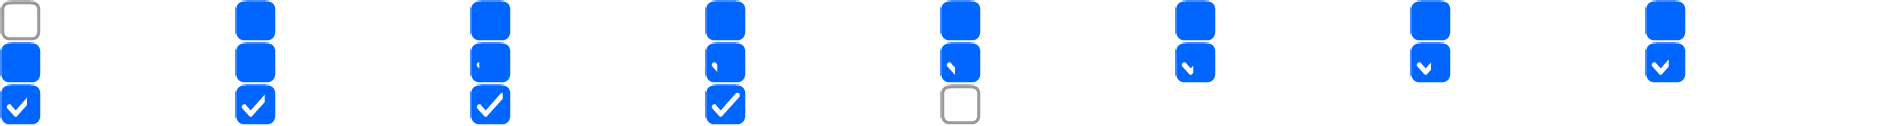
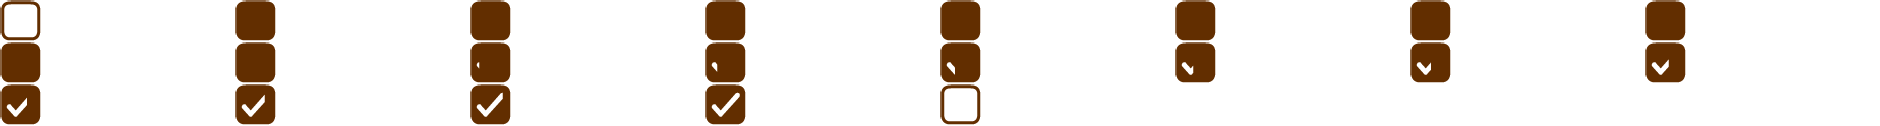
Changed the whole color scheme from blue-purple to orange-brown

diff --git a/src/loginScene.js b/src/loginScene.js
@@ -405,7 +405,7 @@ class LoginScene extends Phaser.Scene
         this.loginText.setOrigin(0.5, 0.5);
         this.loginText.alpha = 0;
 
-        this.switchToLoginForm = this.add.text(945, 650, "Click here to log in with another account", { fontFamily: 'Rubik', fontSize: '32px', color: "#0b0080"});
+        this.switchToLoginForm = this.add.text(945, 650, "Click here to log in with another account", { fontFamily: 'Rubik', fontSize: '32px', color: "#622e00"});
         this.switchToLoginForm.setOrigin(0.5, 0.5);
         this.switchToLoginForm.alpha = 0;
 
@@ -462,17 +462,19 @@ class LoginScene extends Phaser.Scene
         this.usernameFieldAsset = this.add.sprite(960, 480, 'formFields', 'field0001.png');
         this.usernameFieldAsset.alpha = 0;
 
-        this.usernameField = this.add.text(950, 480, "Username", { fontFamily: 'Rubik', fontSize: '48px', fixedWidth: 700, color: "#ABABAB"});
+        this.usernameField = this.add.text(950, 480, "Username", { fontFamily: 'Rubik', fontSize: '48px', fixedWidth: 700, color: "#a79076"});
         this.usernameField.setOrigin(0.5, 0.5);
         this.usernameField.alpha = 0;
 
         var onCloseUsernameEditor = function (txtObj)
         {
             this.scene.closedUsernameEditor = true;
-            txtObj.style.color = "rgb(171 171 171)";
+            txtObj.style.color = "rgb(167 144 118)";
             this.scene.username = txtObj.text;
             if(txtObj.text == "") 
                 txtObj.text = "Username";
+            else
+                txtObj.style.color = "rgb(98 46 0)";
             this.scene.usernameFieldAsset.setFrame("field0001.png");
         };
 
@@ -483,7 +485,7 @@ class LoginScene extends Phaser.Scene
                 this.usernameFieldAsset.setFrame("field0002.png");
                 if(this.usernameField.text == "Username") 
                     this.usernameField.text = "";
-                this.usernameField.style.color = "rgb(0 0 0)";
+                this.usernameField.style.color = "rgb(98 46 0)";
                 this.usernameEditor = this.rexUI.edit(this.usernameField, {}, onCloseUsernameEditor);
             }
         });
@@ -491,20 +493,20 @@ class LoginScene extends Phaser.Scene
         this.passwordFieldAsset = this.add.sprite(960, 570, 'formFields', 'field0001.png');
         this.passwordFieldAsset.alpha = 0;
 
-        this.passwordField = this.add.text(950, 570, "Password", { fontFamily: 'Rubik', fontSize: '48px', fixedWidth: 700, color: "#ABABAB"});
+        this.passwordField = this.add.text(950, 570, "Password", { fontFamily: 'Rubik', fontSize: '48px', fixedWidth: 700, color: "#a79076"});
         this.passwordField.setOrigin(0.5, 0.5);
         this.passwordField.alpha = 0;
 
         var onClosePasswordEditor = function (txtObj)
         {
             this.scene.closedPasswordEditor = true;
-            txtObj.style.color = "rgb(171 171 171)";
+            txtObj.style.color = "rgb(167 144 118)";
             this.scene.password = txtObj.text;
             if(txtObj.text == "") 
                 txtObj.text = "Password";
             else
             {
-                txtObj.style.color = "rgb(0 0 0)";
+                txtObj.style.color = "rgb(98 46 0)";
                 for(var c in txtObj.text)
                     txtObj.text = txtObj.text.substr(0, c) + '●' + txtObj.text.substr(c + 1);
             }
@@ -518,7 +520,7 @@ class LoginScene extends Phaser.Scene
                 this.passwordFieldAsset.setFrame("field0002.png");
                 if(this.passwordField.text == "Password") this.passwordField.text = "";
                 else if(this.password) this.passwordField.text = this.password;
-                this.passwordField.style.color = "rgb(0 0 0)";
+                this.passwordField.style.color = "rgb(98 46 0)";
                 this.passwordEditor = this.rexUI.edit(this.passwordField, {type: "password"}, onClosePasswordEditor);
             }
         });

diff --git a/src/lobbyScene.js b/src/lobbyScene.js
@@ -95,6 +95,8 @@ class LobbyScene extends Phaser.Scene
                 });
             }
         }
+        else
+            this.initLobby(data.socket);
     }
 
     handleWorldResponse(socket, responseType, args)

diff --git a/play.php b/play.php
@@ -56,6 +56,7 @@
 		<script src="config.js" type="text/javascript"></script>
 		<script src="js/socket.io.js" type="text/javascript"></script>
 		<script src="js/util.js" type="text/javascript"></script>
+		<script src="src/matchScene.js" type="text/javascript"></script>
 		<script src="src/lobbyScene.js" type="text/javascript"></script>
 		<script src="src/serversScene.js" type="text/javascript"></script>
 		<script src="src/loginScene.js" type="text/javascript"></script>
